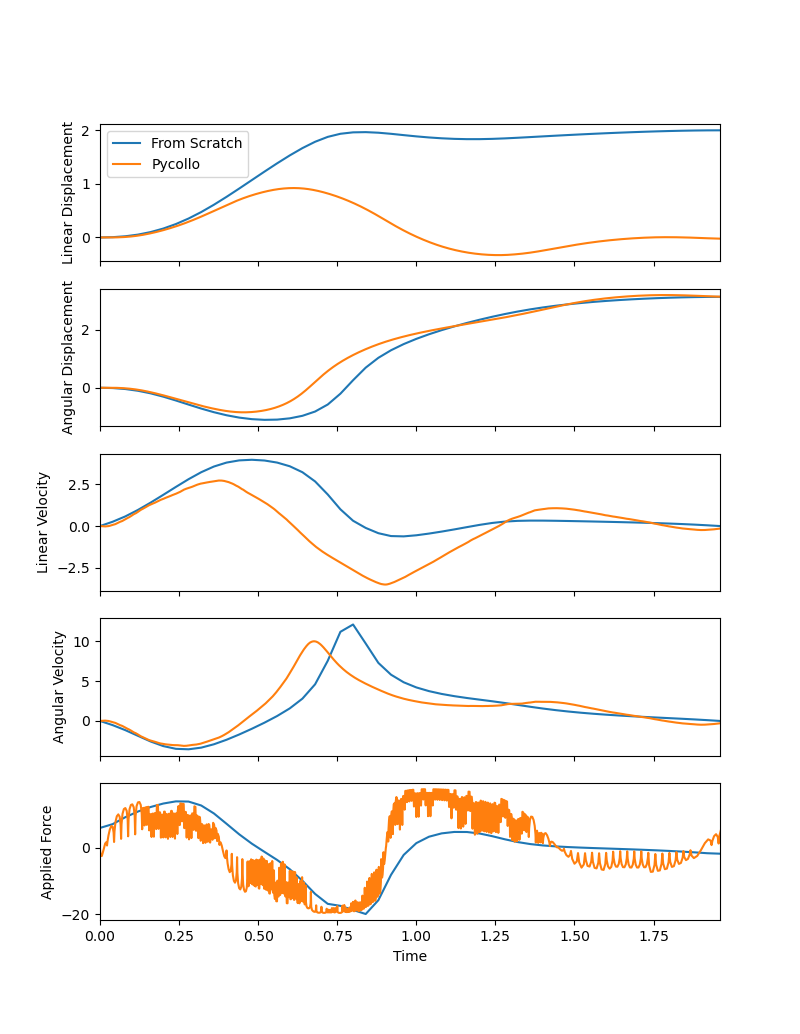
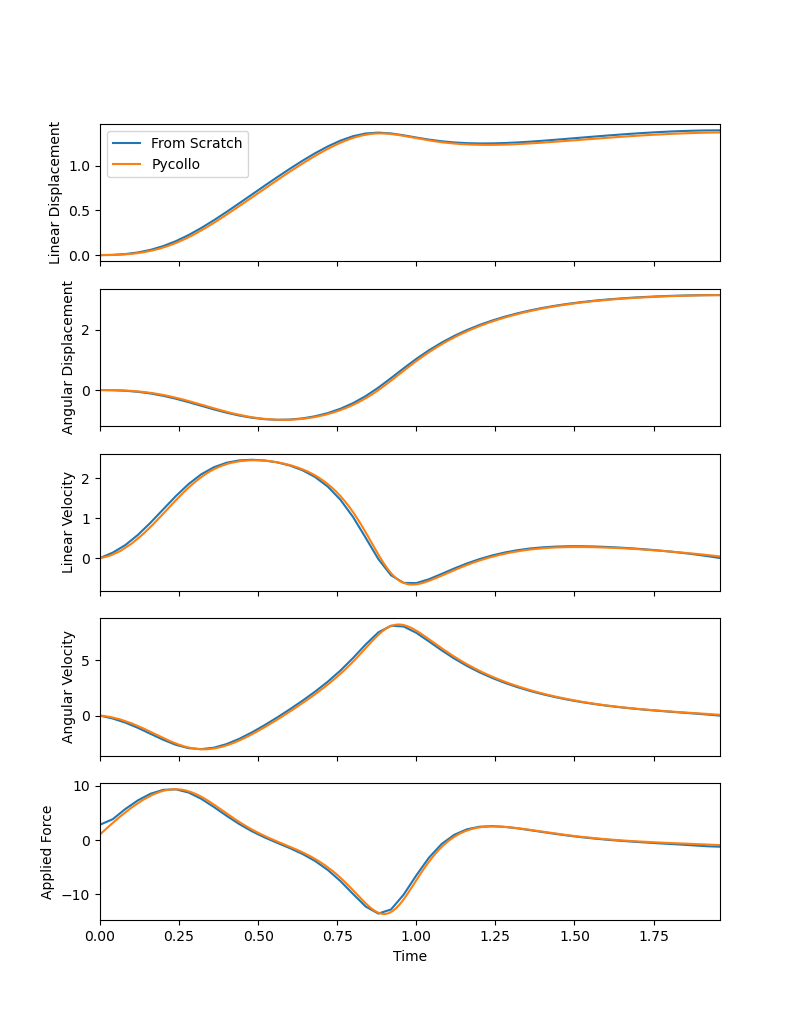
Fix dynamics and pycollo solution

diff --git a/dynamics.py b/dynamics.py
@@ -17,8 +17,8 @@ g = 9.81
 
 # state vector is x=[q1 q2 q.1 q.2]
 def x_dot(s, f):
-    aq1 = (l * m2 * np.sin(s[1]) * np.square(s[3]) + f + m2 * g * np.cos(s[1]) * np.sin(s[1])) / (m1 + m2 * (1 - np.cos(np.square(s[1]))))
-    aq2 = -(l * m2 + np.cos(s[1]) * np.sin(s[1]) * np.square(s[3]) + f * np.cos(s[1]) + (m1 + m2) * g * np.sin(s[1])) / (l * m1 + l * m2 * (1 - np.cos(np.square(s[1]))))
+    aq1 = (l * m2 * np.sin(s[1]) * np.square(s[3]) + f + m2 * g * np.cos(s[1]) * np.sin(s[1])) / (m1 + m2 * (1 - np.square(np.cos(s[1]))))
+    aq2 = -(l * m2 * np.cos(s[1]) * np.sin(s[1]) * np.square(s[3]) + f * np.cos(s[1]) + (m1 + m2) * g * np.sin(s[1])) / (l * m1 + l * m2 * (1 - np.square(np.cos(s[1]))))
     return np.array([s[2], s[3], aq1, aq2])
 
 def timestep(s, f, dt):
@@ -35,7 +35,7 @@ force = sym.Symbol("force")
 cart_state_equations = {
     x: v,
     theta: omega,
-    v: (l * m2 * sym.sin(theta) * omega**2 + force + m2 * g * sym.cos(theta) * sym.sin(theta)) / (m1 + m2 * (1 - sym.cos(np.square(theta)))),
-    omega: -(l * m2 + sym.cos(theta) * sym.sin(theta) * omega**2 + force * sym.cos(theta) + (m1 + m2) * g * sym.sin(theta)) / (l * m1 + l * m2 * (1 - sym.cos(theta**2)))
+    v: (l * m2 * sym.sin(theta) * omega**2 + force + m2 * g * sym.cos(theta) * sym.sin(theta)) / (m1 + m2 * (1 - sym.cos(theta)**2)),
+    omega: -(l * m2 * sym.cos(theta) * sym.sin(theta) * omega**2 + force * sym.cos(theta) + (m1 + m2) * g * sym.sin(theta)) / (l * m1 + l * m2 * (1 - sym.cos(theta)**2))
 }
 

diff --git a/collo.py b/collo.py
@@ -32,6 +32,7 @@ def pycollo_optimise(T=2.0,max_force=20.0,max_disp=2.0):
     phase.bounds.control_variables = {
         dynamics.force: [-max_force,max_force]
     }
+    phase.bounds.integral_variables = [[0, 100]]
     phase.guess.time = [0, T]
     phase.guess.state_variables = [[0, max_disp/2], [0, np.pi], [0, 0], [0, 0]]
     phase.guess.control_variables = [[0, 0]]
